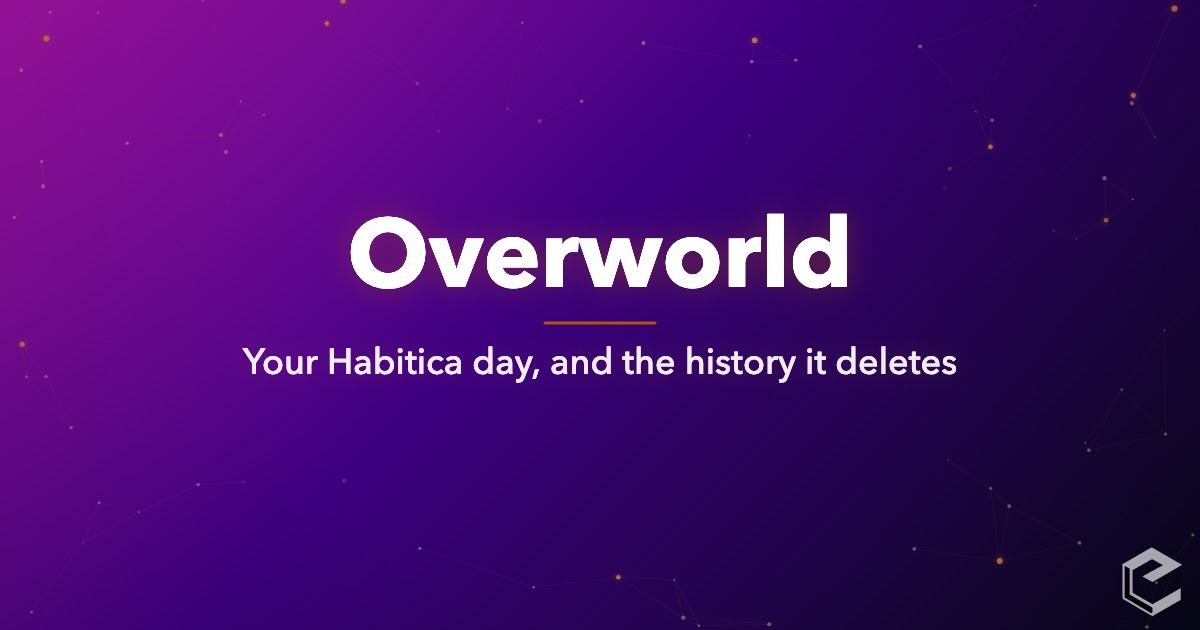
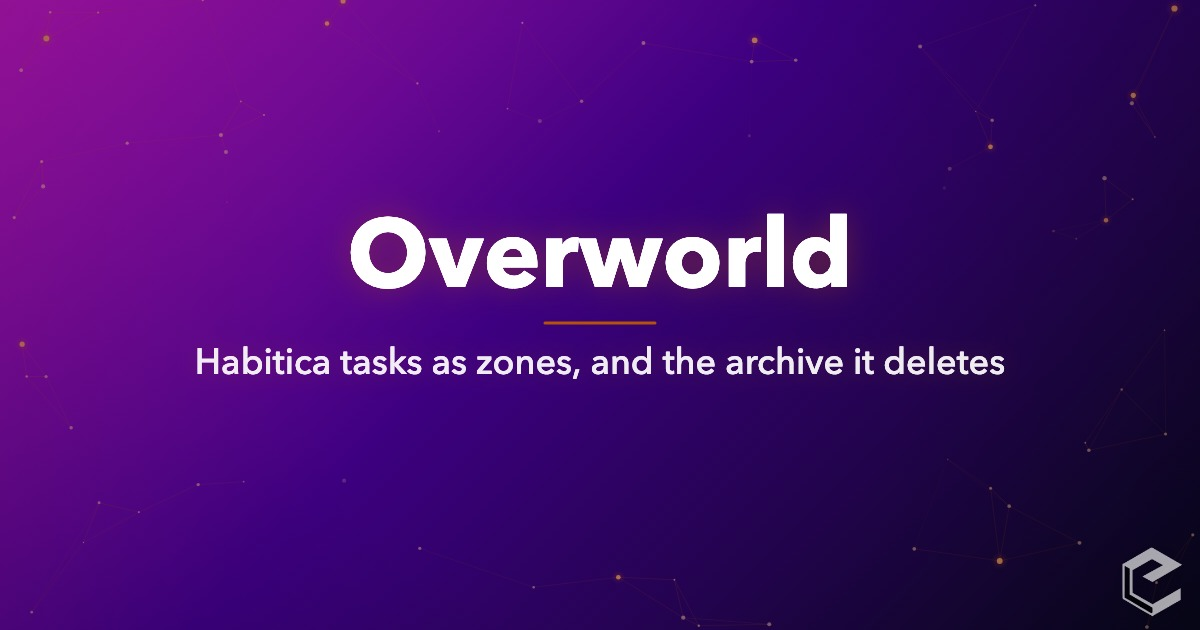
feat: enable og:image and re-render the social preview
The preview said "your Habitica day, and the history it deletes", which
describes a timeline rather than a map of zones. Re-rendered from og-studio
with the corrected subtitle, and the og:image block is no longer commented
out now that the file is in the repo.

Changed region(s): [[0.1542, 0.5429, 0.8325, 0.6032]]

diff --git a/index.html b/index.html
@@ -41,10 +41,10 @@
   <meta property="og:locale" content="en_US">
   <meta name="theme-color" content="#16110d">
   <meta name="neo-repo" content="https://github.com/energon-a-secas/overworld-site">
-  <!-- og:image: uncomment when social preview image is ready (1200x630)
   <meta property="og:image" content="https://overworld.neorgon.com/og-preview.jpg">
   <meta property="og:image:width" content="1200">
-  <meta property="og:image:height" content="630"> -->
+  <meta property="og:image:height" content="630">
+  <meta name="twitter:image" content="https://overworld.neorgon.com/og-preview.jpg">
   <!-- Fleet design tokens: canonical, do not redeclare locally (PROJECTS.md section 5) -->
   <link rel="stylesheet" href="https://cdn.neorgon.org/v1.0.0/styles/base.css">
   <link rel="stylesheet" href="css/style.css">
